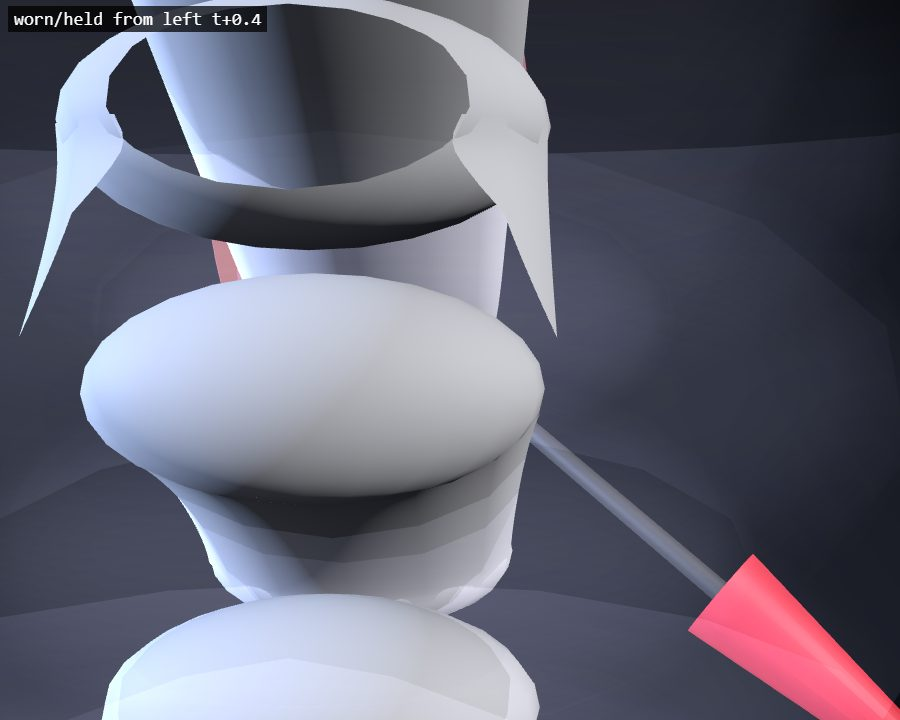
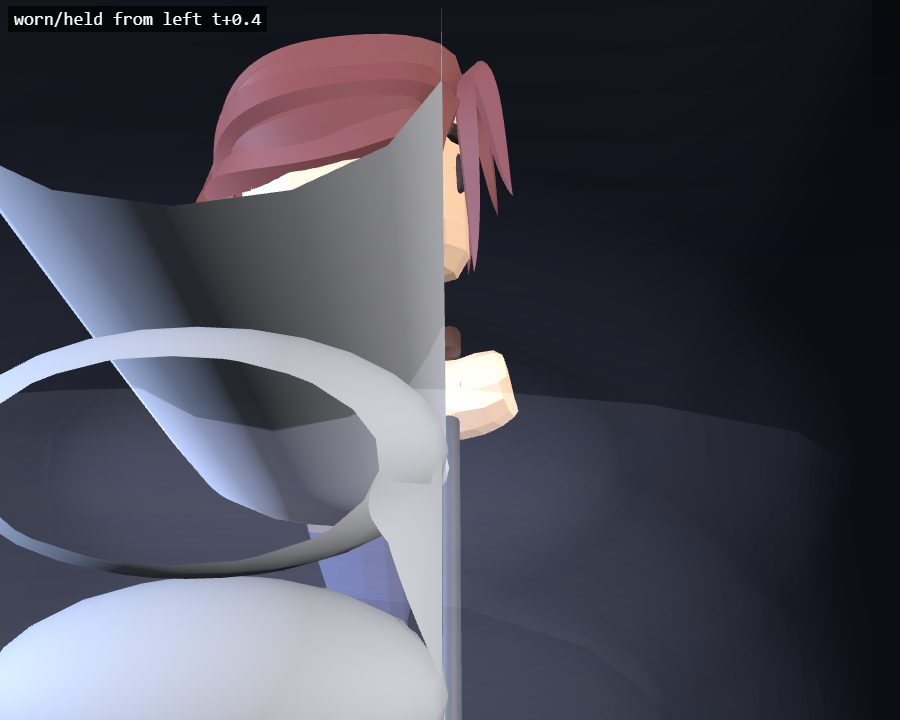
傘: a girl opens her umbrella in the rain (plan 021)

diff --git a/src/effects/vignettes/q-umbrella.js b/src/effects/vignettes/q-umbrella.js
@@ -1,4 +1,92 @@
-// 傘 (plans/qwen/queue/021-kasa-umbrella.md): a stub that shows nothing; Qwen replaces this file with the scene.
+// 傘 "umbrella" (plan 021, card w1301940): rain pours on a girl; she lifts her red umbrella, opens it over her head and
+// stays dry under it. Loop 8 s; nothing moves while the strokes draw.
+//   0-0.5    Idle, the closed umbrella hanging down at her right side, its tip a little off the floor, no rain yet.
+//   0.5      the rain fades in (0.3 s). 0.5-1.8 she hunches and holds her left hand over her head, rain on her.
+//   1.0-1.8  she swings the umbrella up (her left hand comes down); 1.8-2.4 the canopy opens over her head.
+//   2.4-6.4  the rain bounces off the canopy and she sways happily: a drop over the canopy stops at its surface and turns
+//            into a small splash, everywhere else it falls to the ground.
+//   6.4-6.9  the rain fades out; 6.9-7.4 the canopy closes; 7.4-8 she lowers it back down by her side, so the loop ends
+//            where it began.
+// Her right palm presses the J hook's tube: grip() on a point of the hook's centre circle with r = the tube's radius, so
+// the tube rests against the palm and never inside the fist. The umbrella group is a child of the girl (it rides her
+// sway, and the inspector counts it as carried). The shaft leans about 11° toward her head and passes beside it; the
+// open canopy's rim sits about 0.06u above her hair. The rain is 60 short streaks: one whose column passes through the
+// open canopy stops at the cone's surface and turns into a splash, the rest fall to the ground.
 import * as THREE from 'three';
-function scene() { return { group: new THREE.Group(), step() {} }; }
-export const SCENES = { 'q-umbrella': scene };
+import { acts, timeline, lerp } from './timeline.js';
+import { actor } from './model-kit.js';
+import { many, DROP } from '../pieces/kit-things.js';
+import { solidProp } from '../pieces/kit-rig.js';
+import { G } from '../pieces/shape-kit.js';
+import { between } from './helpers.js';
+import { ADULT } from './q-common.js';
+
+const LOOP = 8;
+const HOOK = 0.035, TUBE = 0.012, SHAFT = 0.62, CR = 0.38, CH = 0.12, CAT = 0.5;   // the umbrella in u: hook, tube,
+// shaft length, canopy radius / height, and how far up the shaft the canopy's middle sits (its rim 0.1u below the tip)
+const A_DOWN = 2.5, A_UP = -0.2;                          // the group's turn: the shaft points down-left, then up
+const HOLD_DOWN = [0.42, 0.51], HOLD_UP = [0.42, 0.64];    // her hand (u, from the kanji's right edge), down and up poses
+// (the shaft is 0.62u and leans 2.5 rad, so its tip lands 0.01u above the ground only with the hand at y 0.51)
+const N = 60, FALL = 0.6, TOP = 1.5;                      // the rain: n drops, one fall of TOP u in FALL s
+const hash = (i, k) => (i * k) % 1;                       // a steady spread per drop: its own x, z and phase
+const V2 = new THREE.Vector3(), V3 = new THREE.Vector3(), WS = new THREE.Vector3();
+
+function rainUmbrella(ctx, spec, stage) {
+  const u = stage.u, B = stage.box, group = new THREE.Group(), floor = B.minY;
+  const X = (x) => B.maxX + x * u;
+  const who = actor('gal2', ADULT * u);
+  const umbrella = new THREE.Group(); umbrella.name = 'umbrella';
+  const handle = solidProp([[G.torus(HOOK * u, TUBE * u, Math.PI, 0, -0.02 * u, 0, Math.PI), 0x4a2a18]], 0.25);
+  const shaft = solidProp([[G.cyl(0.01 * u, 0.01 * u, SHAFT * u, 0, SHAFT * u / 2, 0), 0x303030]], 0.3);
+  const canopy = solidProp([[G.cone(CR * u, CH * u, 0, 0, 0), 0xd03040]], 0.3);
+  handle.name = 'handle'; shaft.name = 'shaft'; canopy.name = 'canopy';
+  canopy.position.y = CAT * u;                            // the pivot is the bottom of the shaft
+  umbrella.add(handle, shaft, canopy);
+  who.group.add(umbrella);
+  const rain = many(DROP(u).map(([g, c]) => [g.scale(0.8, 1.5, 0.8), c]), N, 0.85); rain.name = 'rain';
+  const splash = many([[G.sphere(0.03 * u, 0, 0, 0, 1, 0.34, 1), 0xcfe9ff]], N, 0.85); splash.name = 'splash';
+  group.add(who.group, rain, splash);
+  return {
+    group,
+    step(t) {
+      const A = acts(ctx, t, LOOP), pre = A.u < 0, v = pre ? -1 : A.v;
+      const T = timeline(v, { lift: [1.0, 0.8, 'out'], open: [1.8, 0.6], rainIn: [0.5, 0.3], rainOut: [6.4, 0.5], close: [6.9, 0.5], lower: [7.4, 0.6] });
+      const ws = group.getWorldScale(WS).y;
+      const up = T.lift * (1 - T.lower), op = T.open * (1 - T.close);
+      const rainK = pre ? 0 : T.rainIn * (1 - T.rainOut);
+      const shield = between(v, 0.5, 0.9) * (1 - between(v, 1.15, 1.8));
+      const happy = between(v, 2.4, 2.9) * (1 - between(v, 6.4, 6.8));
+      const swing = Math.sin(v * 1.0) * happy;            // a small slow sway, side to side, while she holds it up
+      who.group.position.set(X(0.62) + 0.022 * u * swing, floor, 0);
+      who.group.rotation.z = 0.05 * swing;
+      umbrella.position.set((lerp(HOLD_DOWN[0], HOLD_UP[0], up) - 0.62) * u, lerp(HOLD_DOWN[1], HOLD_UP[1], up) * u, 0.06 * u);
+      umbrella.rotation.z = lerp(A_DOWN, A_UP, up);
+      canopy.scale.set(0.12 + 0.88 * op, 2.5 - 1.5 * op, 0.12 + 0.88 * op);   // closed: a narrow cone hugging the shaft
+      who.pose('Idle', t);
+      // under the rain she hunches and shields her head; she stands up again as the canopy opens
+      const h = shield * (1 - between(v, 1.6, 2.2));
+      who.turn('Abdomen', 0.22 * h); who.turn('Torso', 0.16 * h); who.turn('Head', 0.2 * h);
+      who.handTo('L', who.at('over', V3, 0.06, -0.04, 0.05), shield, { out: 0.35, down: 0.3 });
+      // Her right palm against the J hook's tube (grip with r = the tube's radius, so the tube rests on the palm and
+      // never inside the fist): the palm under the hook's bowl, so the fist sits on the shaft's axis above the handle.
+      who.grip('R', umbrella.localToWorld(V2.set(0, -(HOOK + 0.02) * u, 0)),
+        V3.set(0, -1, 0).transformDirection(umbrella.matrixWorld), TUBE * u * ws, pre ? A.setup : 1);
+      // the rain: every drop is a pure function of t; over the open canopy it stops at the cone's surface and splashes
+      const s = v - 0.5, C = group.worldToLocal(umbrella.localToWorld(V3.set(0, CAT * u, 0)));
+      const cr = CR * u * (0.12 + 0.88 * op), ch = CH * u * (2.5 - 1.5 * op) * Math.cos(umbrella.rotation.z);
+      for (let i = 0; i < N; i++) {
+        if (s < 0 || rainK <= 0.01) { rain.set(i, 0, 0, 0, 0); splash.set(i, 0, 0, 0, 0); continue; }
+        const x = X(0.05 + 1.1 * hash(i, 0.618034)), z = (-0.2 + 0.5 * hash(i, 0.3771)) * u;
+        const f = (((s + hash(i, 0.1379) * FALL) % FALL) + FALL) % FALL / FALL;
+        const d = Math.hypot(x - C.x, z - C.z), on = op > 0.55 && d < cr;
+        const land = on ? Math.max(0, C.y - floor + ch / 2 - (d / cr) * ch) / u : 0;
+        const hit = 1 - land / TOP;                       // the share of its fall it takes to reach that height
+        if (f < hit) { rain.set(i, x, floor + TOP * (1 - f) * u, z, rainK); splash.set(i, 0, 0, 0, 0); }
+        else { rain.set(i, 0, 0, 0, 0); splash.set(i, x, floor + land * u, z, on ? Math.sin(Math.PI * (f - hit) / (1 - hit)) * rainK : 0); }
+      }
+      rain.commit(); splash.commit();
+    },
+  };
+}
+
+export const SCENES = { 'q-umbrella': rainUmbrella };

diff --git a/src/effects/vcat-qw.js b/src/effects/vcat-qw.js
@@ -9,6 +9,6 @@ export const QW = {
   'q-try-hats': VM(pdc('gal') + 9, '試 (gal): a woman tries on hats: the big brown one drops over her eyes, she shakes her head and hangs it back; the small red one fits, and she poses happily', ['gal']),
   'q-hat-wind': VM(pdc('guy', 'guy2') + 2, '帽子 (guy, guy2): a gust blows a boy\'s red cap off his head; his dad catches it by the brim and, with both hands, sets it back on the boy\'s head and tugs it snug; the boy bounces happily', ['guy', 'guy2']),
   'q-glasses': VM(pdc('grandpa') + 3, '眼鏡 (grandpa): an old man squints at the wobbly kanji, picks his glasses up from a little table, puts them on (the lenses right over his eyes, the arms back to his ears), and the kanji stops wobbling; the lenses glint', ['grandpa']),
-  'q-umbrella': VM(pdc('gal2') + 6, '傘 (gal2): rain pours on a girl; she opens a red umbrella and holds it up by its handle, and the rain bounces off it while she stays dry', ['gal2']),
+  'q-umbrella': VM(pdc('gal2') + 5, '傘 (gal2): rain pours on a girl; she opens a red umbrella and holds it up by its handle, and the rain bounces off it while she stays dry', ['gal2']),
   'q-key-door': VM(pdc('guy3') + 6, '鍵 (guy3): a man at a locked door puts a key into the keyhole, turns it with a click, and the door swings open', ['guy3']),
 };
